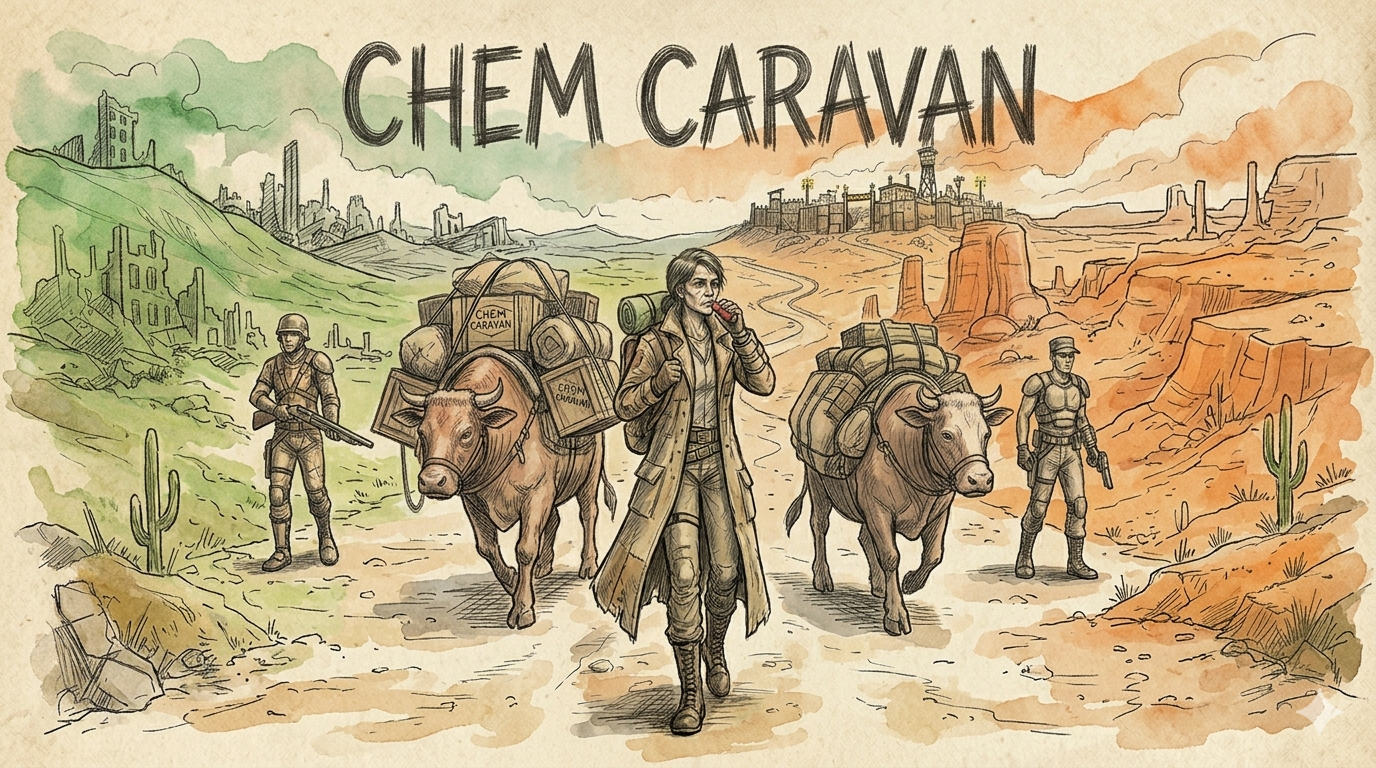
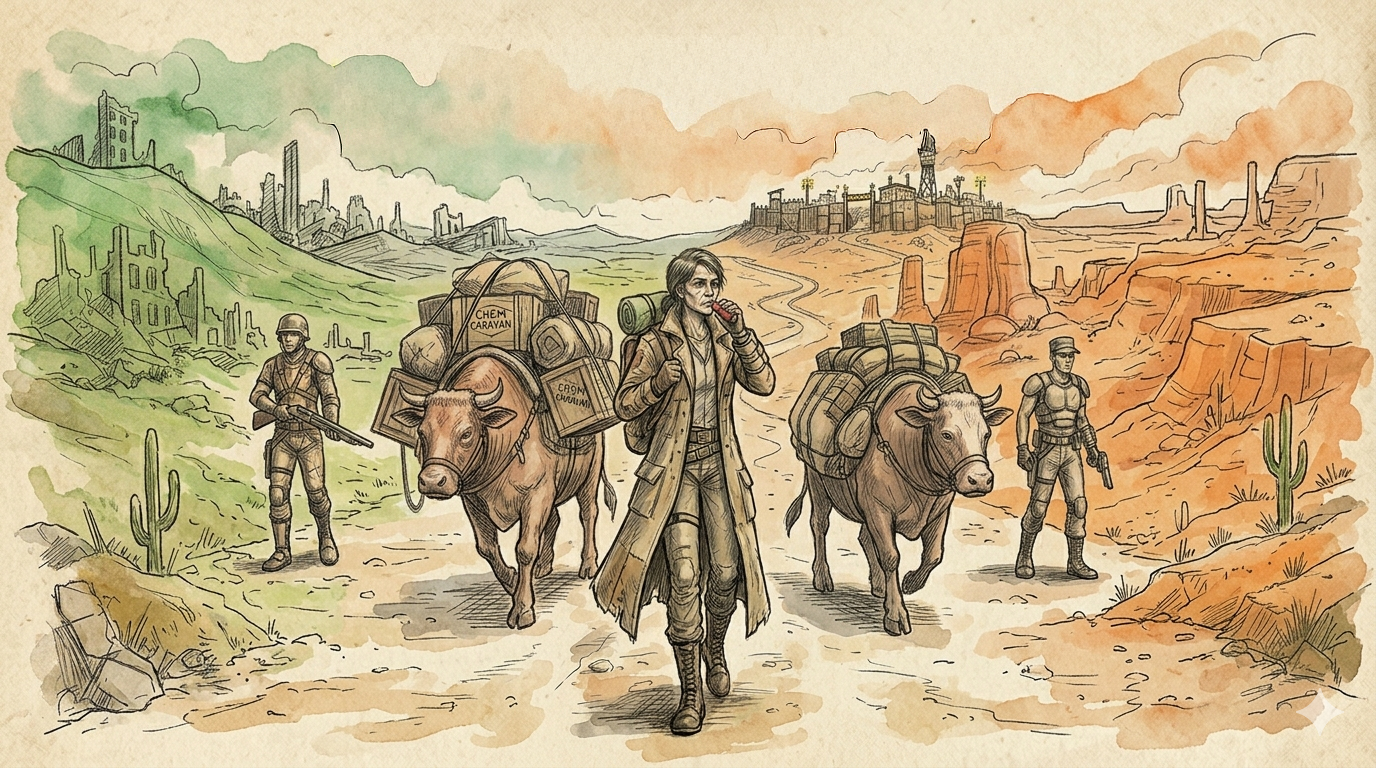
fix: pin Home title absolutely to sky area, independent of panel position

Changed region(s): [[0.2188, 0.0312, 0.7812, 0.2188]]

diff --git a/src/pages/Home.tsx b/src/pages/Home.tsx
@@ -112,7 +112,7 @@ export default function Home() {
 
   return (
     <div
-      className="relative min-h-screen flex flex-col items-center justify-center gap-4 p-4 transition-colors duration-300 overflow-hidden"
+      className="relative min-h-screen flex flex-col items-center justify-center p-4 transition-colors duration-300 overflow-hidden"
       data-mode={selectedMode}
     >
       {/* Background */}
@@ -128,10 +128,11 @@ export default function Home() {
       {showTutorial && <HowToPlay onClose={() => setShowTutorial(false)} />}
 
       <h1
-        className="relative font-display text-pip-green text-center tracking-widest"
+        className="absolute left-0 right-0 text-center font-display text-pip-green tracking-widest pointer-events-none"
         style={{
-          fontSize: 'clamp(2.5rem, 10vw, 5rem)',
-          textShadow: '0 2px 16px rgba(0,0,0,0.7), 0 1px 4px rgba(0,0,0,0.9)',
+          top: 'clamp(12px, 3vh, 32px)',
+          fontSize: 'clamp(2.5rem, 9vw, 5.5rem)',
+          textShadow: '0 2px 16px rgba(0,0,0,0.55), 0 1px 4px rgba(0,0,0,0.75)',
         }}
       >
         CHEM CARAVAN